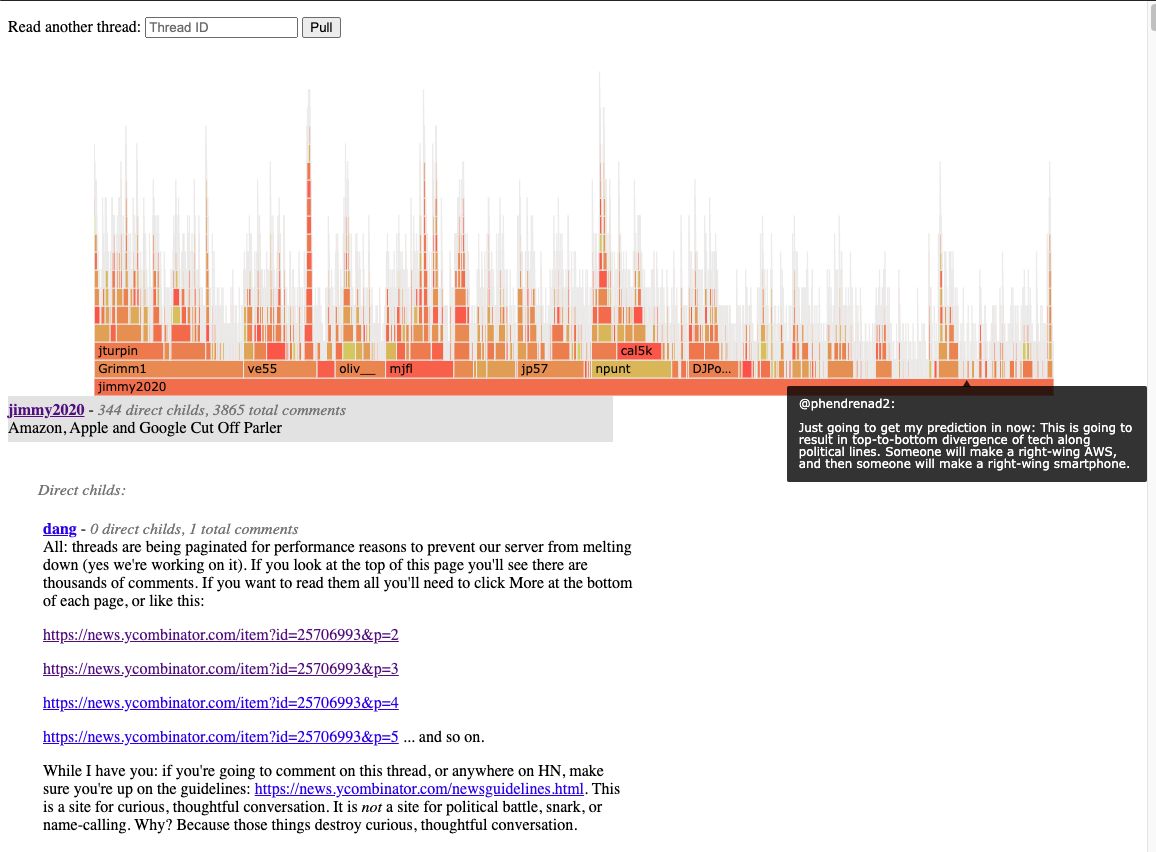
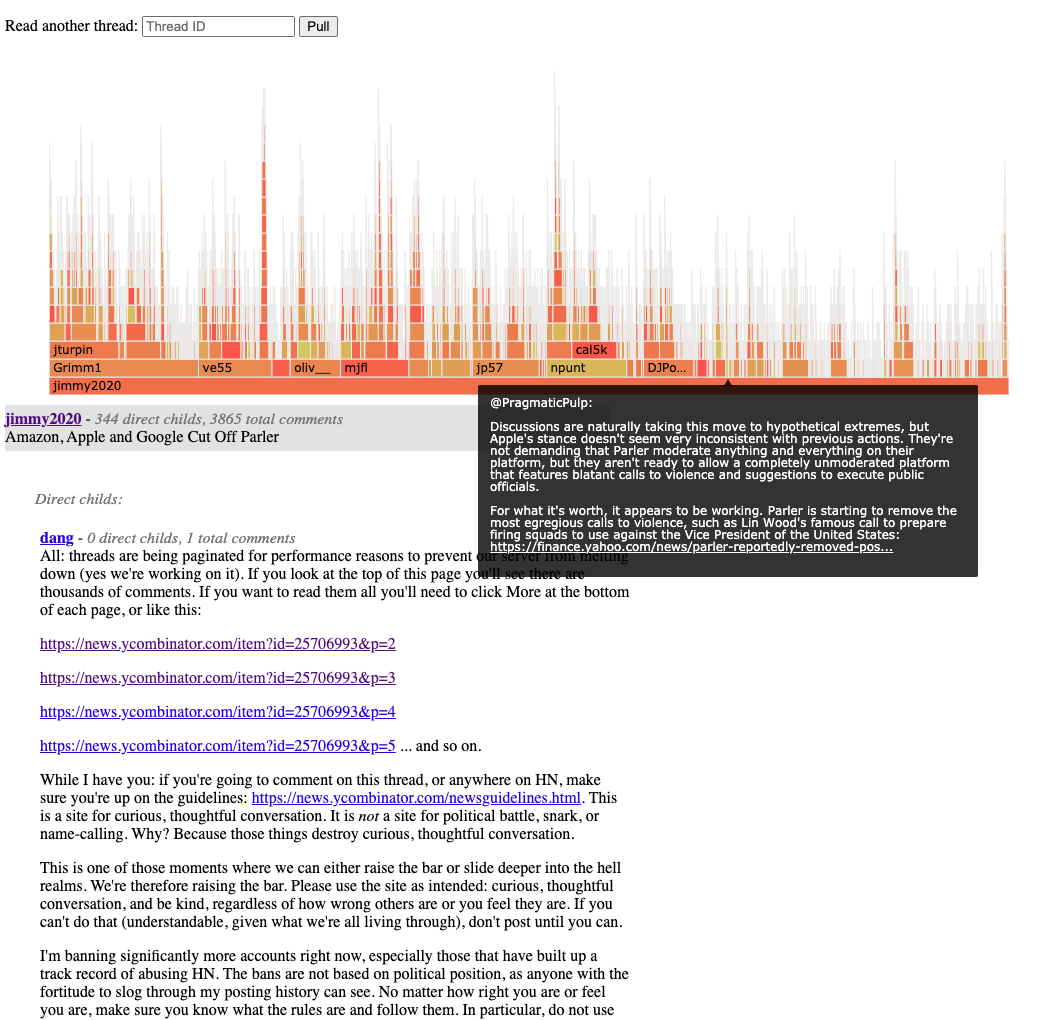
Update screenshot and add bookmark

Changed region(s): [[0.0, 0.1526, 1.0, 1.0], [0.0, 0.0, 0.3336, 0.061], [0.9706, 0.0, 1.0, 0.0305]]

diff --git a/README.md b/README.md
@@ -9,3 +9,10 @@ https://trungdq88.github.io/hn-big-threads/
 Screenshot:
 
 ![](screenshot.png)
+
+Shortcut bookmark:
+
+Create a bookmark with this link and name it "flame it" (or anything you like). Then click on the bookmark when you are at a HN post, it will open the flame graph for that post.
+```
+javascript:location.href="https://trungdq88.github.io/hn-big-threads/#" + location.href.split('item?id=')[1]
+```
